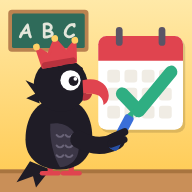
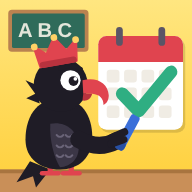
Icône définitive : l'aigle coche le calendrier, jaune de Genève
Claude-Session: https://claude.ai/code/session_01QzSrM9BQRZZjqAqeosaf9c

diff --git a/citraro.html b/citraro.html
@@ -7,9 +7,9 @@
 <meta name="apple-mobile-web-app-title" content="Gen suis où ?">
 <title>Gen suis où ?</title>
 <link rel="manifest" href="manifest-citraro.json">
-<link rel="apple-touch-icon" href="icon-180.png?v=6">
-<link rel="icon" href="icon-192.png?v=6">
-<meta name="theme-color" content="#d9434e">
+<link rel="apple-touch-icon" href="icon-180.png?v=7">
+<link rel="icon" href="icon-192.png?v=7">
+<meta name="theme-color" content="#ffcf3a">
 <meta name="apple-mobile-web-app-status-bar-style" content="default">
 <link rel="preconnect" href="https://fonts.googleapis.com">
 <link href="https://fonts.googleapis.com/css2?family=Fredoka:wght@500;600;700&family=Nunito:wght@500;700;800&display=swap" rel="stylesheet">

diff --git a/index.html b/index.html
@@ -7,9 +7,9 @@
 <meta name="apple-mobile-web-app-title" content="Gen suis où ?">
 <title>Gen suis où ?</title>
 <link rel="manifest" href="manifest.json">
-<link rel="apple-touch-icon" href="icon-180.png?v=6">
-<link rel="icon" href="icon-192.png?v=6">
-<meta name="theme-color" content="#d9434e">
+<link rel="apple-touch-icon" href="icon-180.png?v=7">
+<link rel="icon" href="icon-192.png?v=7">
+<meta name="theme-color" content="#ffcf3a">
 <meta name="apple-mobile-web-app-status-bar-style" content="default">
 <link rel="preconnect" href="https://fonts.googleapis.com">
 <link href="https://fonts.googleapis.com/css2?family=Fredoka:wght@500;600;700&family=Nunito:wght@500;700;800&display=swap" rel="stylesheet">

diff --git a/sw.js b/sw.js
@@ -1,4 +1,4 @@
-const C='gso-v22';const F=['./','index.html','citraro.html','manifest-citraro.json','manifest.json','icon-192.png','icon-512.png','icon-180.png'];
+const C='gso-v23';const F=['./','index.html','citraro.html','manifest-citraro.json','manifest.json','icon-192.png','icon-512.png','icon-180.png'];
 self.addEventListener('install',e=>{e.waitUntil(caches.open(C).then(c=>c.addAll(F)));self.skipWaiting()});
 self.addEventListener('activate',e=>{e.waitUntil(caches.keys().then(k=>Promise.all(k.filter(x=>x!==C).map(x=>caches.delete(x)))));self.clients.claim()});
 self.addEventListener('fetch',e=>{if(e.request.method!=='GET'||new URL(e.request.url).origin!==self.location.origin)return;
